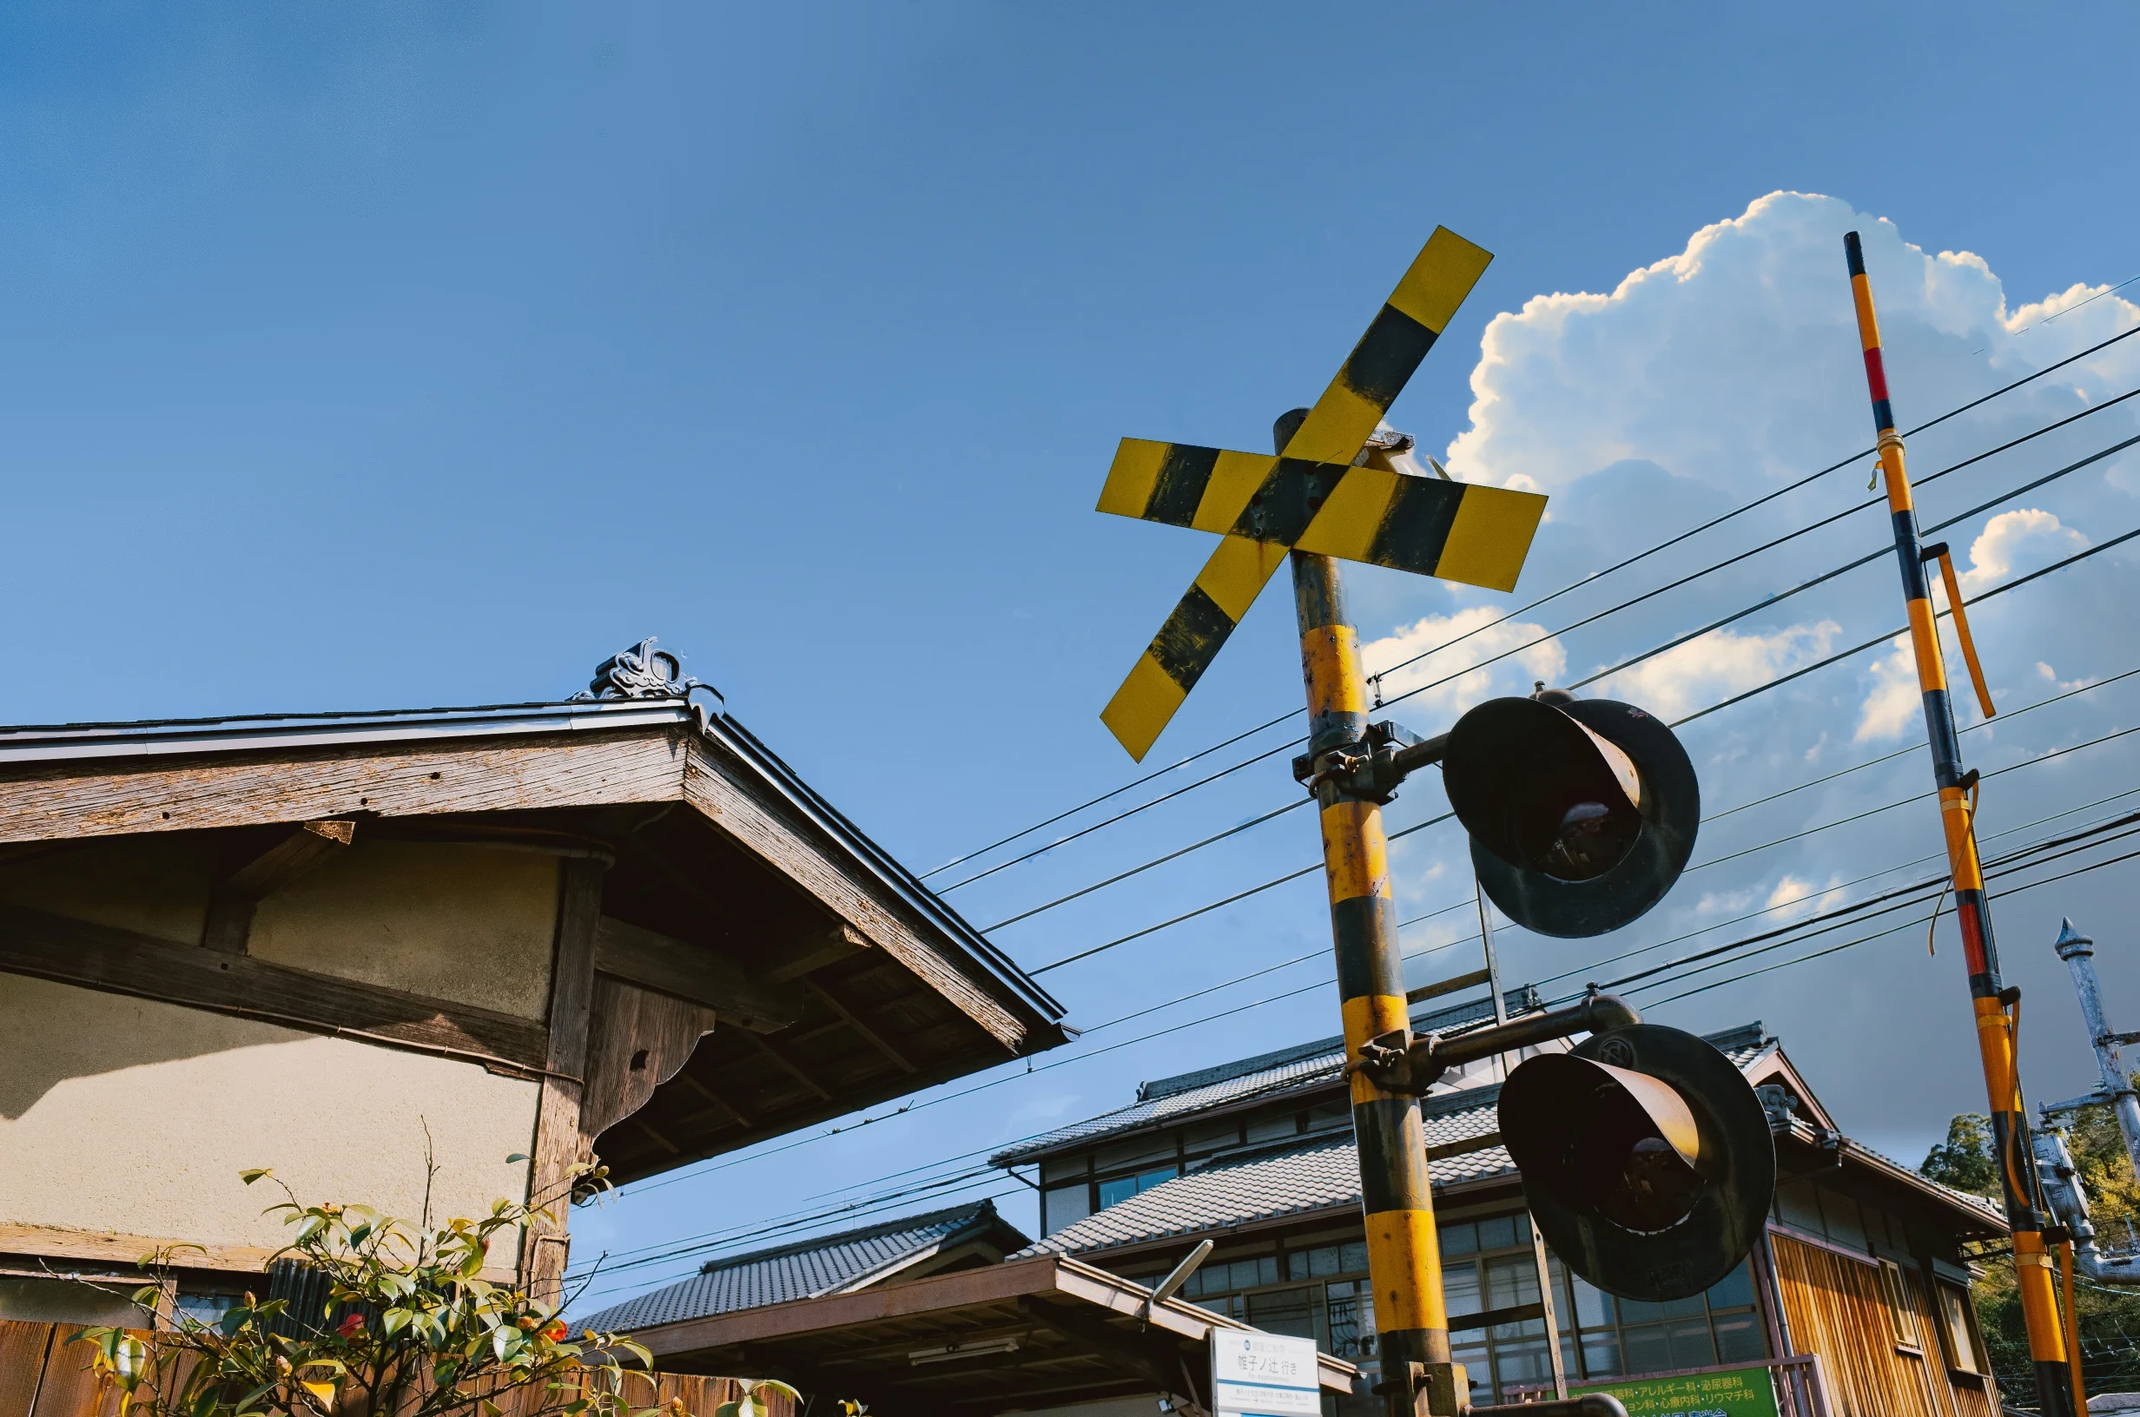
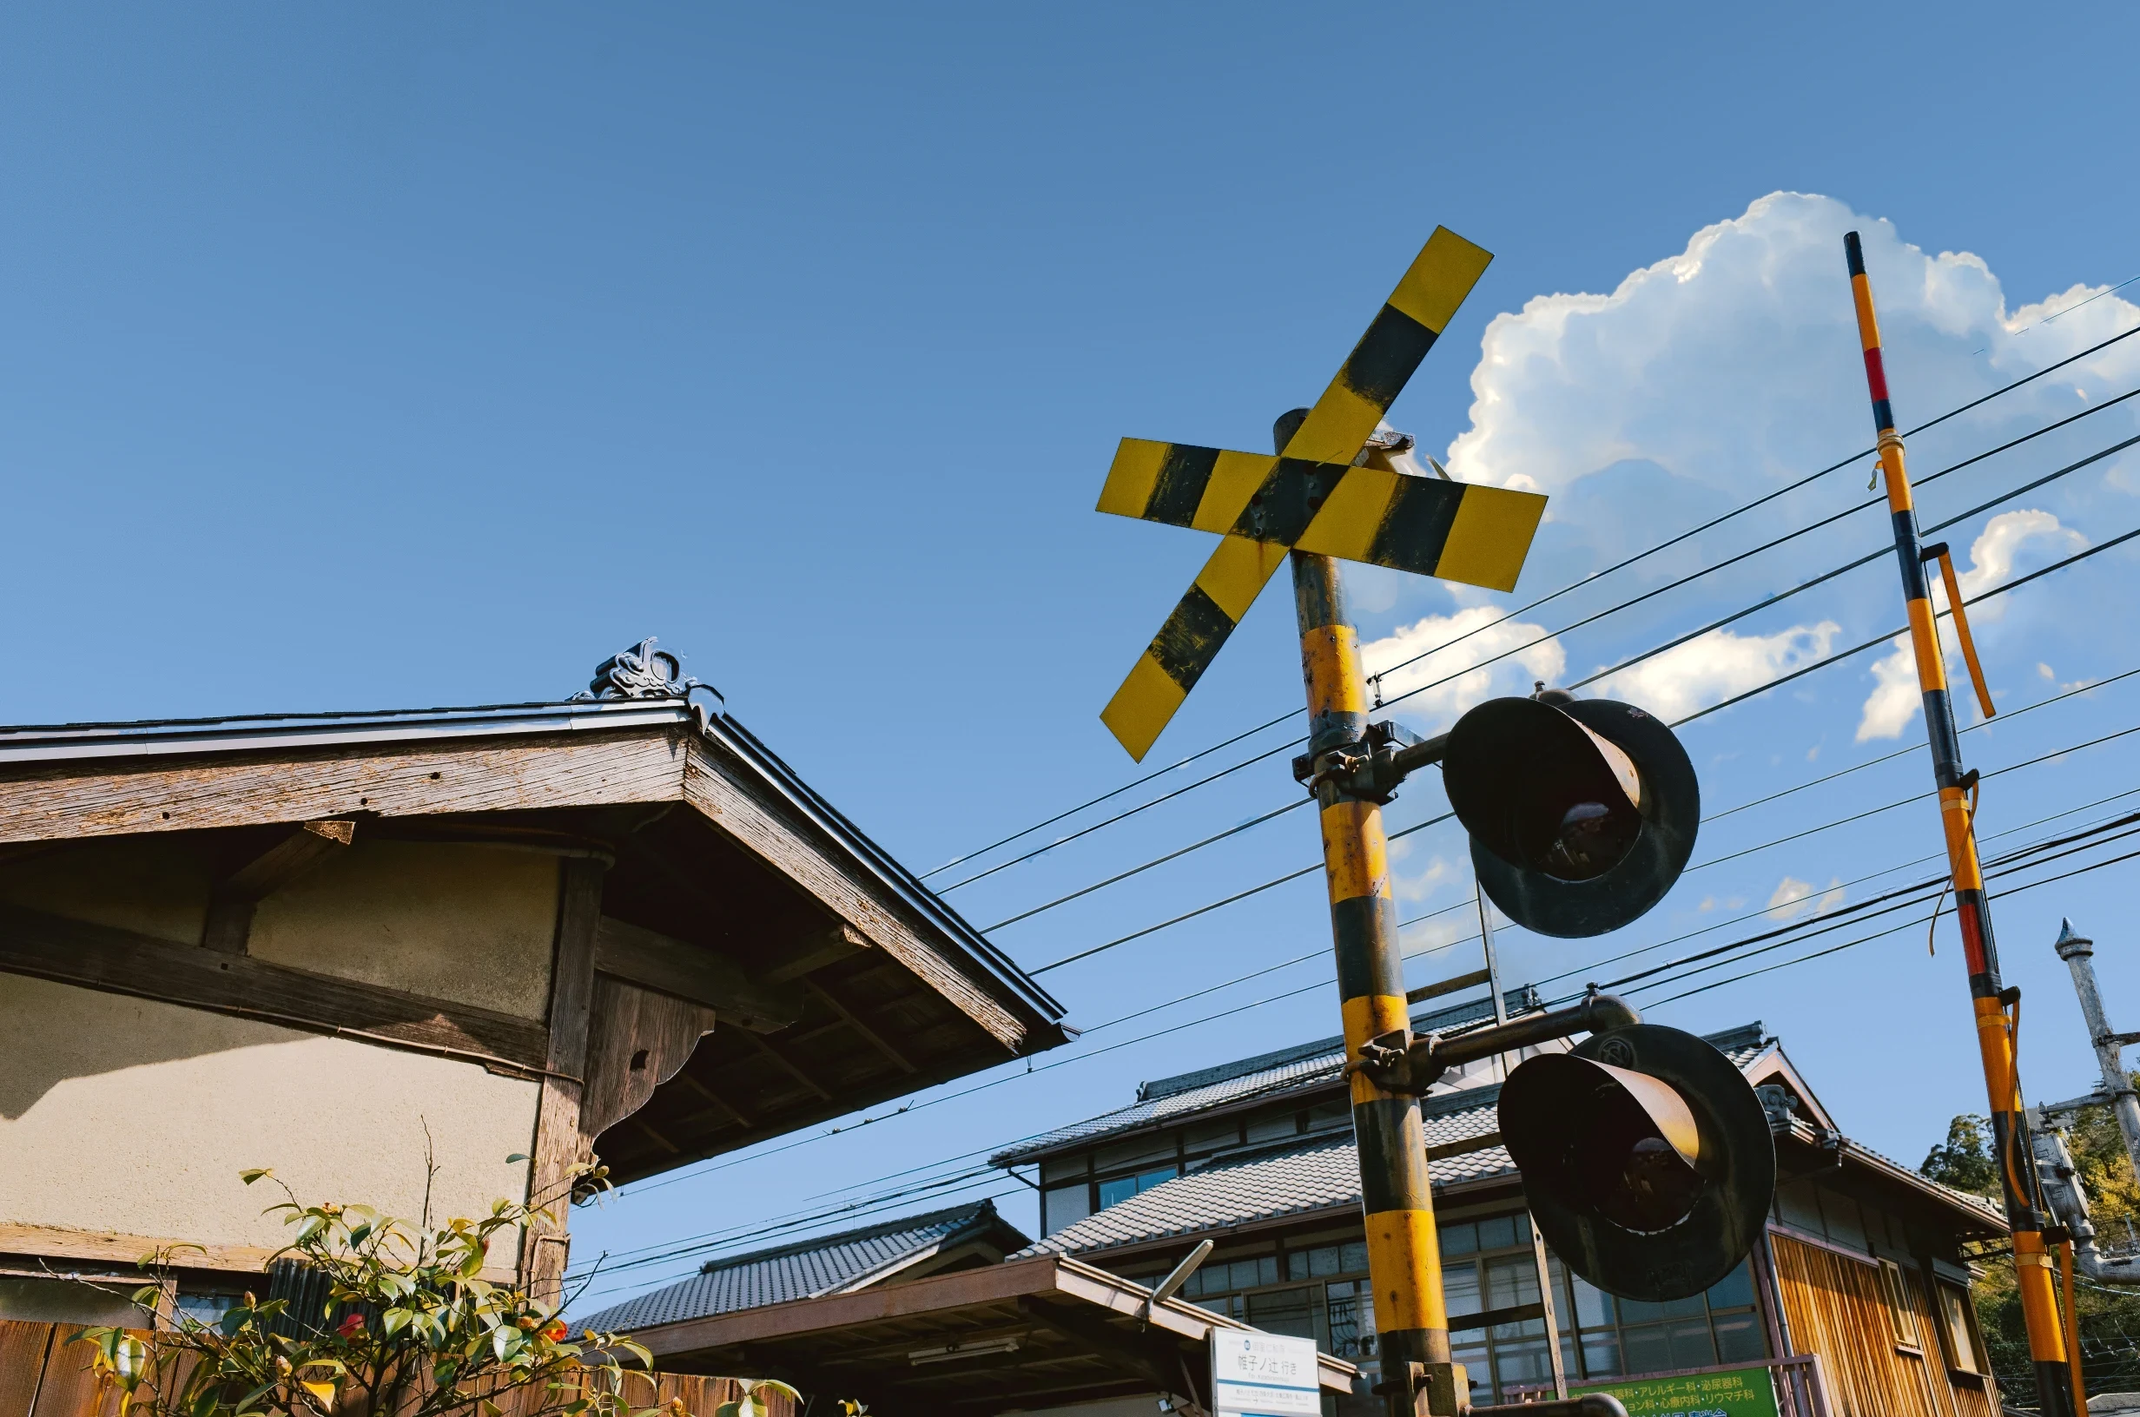
Lab: climb curve-mirror round 2
Claude-Session: https://claude.ai/code/session_01RqENhngNCzDFmJWDZueXGV

diff --git a/tools/depth/bakes/curve-mirror/matte.py b/tools/depth/bakes/curve-mirror/matte.py
@@ -1,0 +1,293 @@
+"""The plate's sky, composited again: one matte, one grade, one sky.
+
+    python3 -I tools/depth/bakes/curve-mirror/matte.py [OUT] [SRC] [SHEET]
+      reads SRC (default OUT/photo.webp: the plate as grade.py leaves it),
+      OUT/aux.png (the sky matte, blue) and OUT/scene.json (the camera, the
+      sun); writes OUT/photo.webp, the sky matte at the right edge in
+      OUT/aux.png, and marks scene.json ("matte": 1) so it cannot run twice
+      on one plate (FORCE=1, with SRC a copy of the plate before it and that
+      plate's aux.png back in OUT, to run it again). SHEET: optional preview.
+
+    Order: last, after grade.py (it moves only the sky, the cloud's edge and
+    the cold cast on the foreground at the right edge; grade.png's zones
+    stand). The panorama (env.webp) is not touched.
+
+clouds.py laid a photographed cumulus over the plate, but the source was
+backlit (a silver lining on every turret) and the plate's sun stands behind
+the lens at the upper left: so the heap carried a thin, bright, warm white
+rim round its whole silhouette, brighter than the body just inside it, with
+a one or two px sharpening overshoot on its outside and a hard step to the
+blue. Over the cobalt it read as a cut-out, not a cloud. And the plate's own
+sky, low at the lower right behind the far pole and the trees, was never
+taken to the cobalt: a slate grey band (about 122, 149, 177 where the
+gradient is 139, 178, 222), a storm under a summer sky. Its cold cast had
+reached the galvanised tower beside the striped pole, and the matte read the
+tower's light faces as a speckle of part sky, so the engine's cloud lift
+(which reads that matte) printed them a cold cyan.
+
+So, in the plate's linear light:
+
+  1. the old clear sky, B: the target's saturation and no brighter (or, in
+     the slate band, SLATE, its darker, greyer blue), filled in under the
+     cloud; the new one is the graded target by elevation
+     (sky_grade.target), the one cobalt gradient that deepens toward the
+     zenith across the whole frame, the plate's own grain on it;
+  2. the cloud's matte, unmixed: how far each pixel has gone pale from B
+     (PALE), soft, so a wisp or a thinning belly keeps its share; eroded as
+     a grey matte ERODE px (a hard edge moves in past the rim's outermost
+     line and the overshoot, a soft one barely changes) and feathered
+     FEATHER px, so the edge rolls into the blue;
+  3. its light decontaminated: B taken out by the pixel's share (where the
+     share is too thin to trust, the body's colour pushed out). Inside RIM
+     px of the body's edge on clear sky (a wire across it is not an edge),
+     each pixel's light is held to the body's just inside (CAP: a crown
+     stays white where the body behind it is white, a thin silver line round
+     a shaded tower goes), its hue the body's, its fine florets laid back on
+     (DETAIL). Then the faces turned to the sun lit, broadly (SUN_D deep,
+     SUN_LIFT brighter, SUN_WARM toward the sunlit top's warm white): a
+     front-lit heap, bright on its sun side and rolling off at its edge;
+  4. laid over the plate with clouds._lay_over (every wire, pole and eave's
+     edge pixel unmixed against the new sky, the sharpening halo taken out);
+     the strips of old sky the matte left out between two wires run close
+     are sky;
+  5. the foreground at the right edge (DESPILL): the tower and the pole's
+     fittings made solid in the matte (TOWER, TOWER_MIN), their cold cast
+     taken out (blue held to the larger of red and green, a cyan cast to
+     the grey) and a little warmth given back (WARM: the film, the Pro-Mist's
+     veil and the dye bleed off the cobalt cool a thin grey again), and the
+     matte the engine reads made the same there.
+"""
+import json
+import os
+import sys
+
+import cv2
+import numpy as np
+
+sys.path.insert(0, os.path.join(os.path.dirname(os.path.abspath(__file__)), "..", ".."))
+import kit
+
+sys.path.insert(0, os.path.dirname(os.path.abspath(__file__)))
+import clouds
+import develop
+import sky_grade
+
+PALE = (0.92, 0.45)  # saturation over the old clear sky's: no cloud .. all cloud
+SLATE = ((1980.0, 820.0), 80.0)  # the slate band low at the right: from (x, y) on, and its feather (px)
+ERODE = 1.5  # px the cloud's matte is eroded at its edge on clear sky
+FEATHER = 1.5  # px (sigma) it is then feathered
+RIM = 22.0  # px inside the edge over which its light is held to the body's
+CAP = 0.95  # the rim's light, at most this over the body's just inside it
+SUN_D = 80.0  # px: how deep a face turned to the sun is lit
+SUN_LIFT = 0.3  # how much brighter it is than the body
+SUN_WARM = 0.5  # and how far toward the sunlit top's warm white
+DETAIL = 1.0  # how much of the rim's own fine texture is laid back on
+WARM = (1.05, 1.0, 0.88)  # the warmth the despilled foreground is given (linear)
+TOWER = (2330.0, 1030.0)  # the tower and the pole's fittings: from (x, y) on (above: the wires)
+TOWER_MIN = 3000.0  # px: a solid piece of the foreground (smaller: a wire pair and its gap)
+DESPILL = ((2120.0, 860.0), 140.0)  # the zone at the right edge: from (x, y) on, and its feather (px)
+
+
+def _pp(col, w, sigma):
+    out = kit.pushpull(col, w)
+    return cv2.GaussianBlur(out, (0, 0), sigma) if sigma > 0 else out
+
+
+def composite(lin, sky, el, sun_img, tower):
+    """The plate's sky rebuilt. lin: linear RGB; sky: the 0..1 open-sky
+    matte; el: elevation (degrees) per pixel; sun_img: the sun's direction
+    across the image (x right, y down), unit; tower: the solid foreground at
+    the right edge (solid()). Returns the image and maps."""
+    H, W = sky.shape
+    T = sky_grade.target(el)
+    L = kit.luma(lin)
+    LT = kit.luma(T)
+    inside = (sky > 0.5).astype(np.uint8)
+    fg = (sky < 0.5).astype(np.uint8)
+    sat = lambda c: (c.max(-1) - c.min(-1)) / np.maximum(c.max(-1), 1e-5)
+    s_px = cv2.GaussianBlur(sat(develop.enc(lin)), (0, 0), 1.0)
+
+    # the old clear sky, B: the target's saturation and no brighter than it,
+    # or, in the slate band low at the right, its darker, greyer blue
+    xs, ys = np.meshgrid(np.arange(W, dtype=np.float32), np.arange(H, dtype=np.float32))
+    (sx0, sy0), sfe = SLATE
+    slate = kit.smoothstep(sx0 - sfe, sx0 + sfe, xs) * kit.smoothstep(sy0 - sfe, sy0 + sfe, ys)
+    srT = s_px / np.maximum(sat(develop.enc(T)), 1e-3)
+    rT = L / np.maximum(LT, 1e-5)
+    cand = (srT > 0.9) & (rT < 1.15) | (slate > 0.5) & (srT > 0.62) & (rT < 0.95)
+    cand = cand & (sky > 0.95)
+    B = cv2.GaussianBlur(kit.pushpull(lin, cand.astype(np.float32)), (0, 0), 12.0)
+    B = np.maximum(B, 1e-4)
+    # in the slate band the matte left strips of the old sky out (between two
+    # wires run close): a pixel there that is the old sky's own colour, and
+    # not the tower (which is galvanised to the same grey), is sky
+    dev = np.abs(lin / B - 1).max(-1)
+    slike = (slate > 0.5) & (tower < 0.5) & (sky < 0.95) & (dev < 0.1)
+    slike = cv2.erode(slike.astype(np.uint8), kit.disk(1)).astype(np.float32)
+    sky = np.maximum(sky, cv2.GaussianBlur(slike, (0, 0), 0.7))
+    inside = (sky > 0.5).astype(np.uint8)
+    fg = (sky < 0.5).astype(np.uint8)
+
+    # how much of each pixel is cloud: how far it has gone pale from its
+    # clear sky (unmixed, soft: a wisp keeps its share)
+    srB = s_px / np.maximum(sat(develop.enc(B)), 1e-3)
+    au = np.clip((PALE[0] - srB) / (PALE[0] - PALE[1]), 0, 1) * np.clip(sky, 0, 1)
+    # eroded as a grey matte (a hard edge moves in ERODE px, past the rim's
+    # outermost line and the overshoot; a soft one barely changes), feathered
+    a = cv2.erode(au, kit.disk(ERODE))
+    a = cv2.GaussianBlur(a, (0, 0), FEATHER)
+    a = np.where(fg > 0, np.maximum(a, au), a)
+
+    # the body (for the rim's distances): specks opened away, gaps filled; its
+    # edge only where it meets clear sky (a wire across it is not an edge)
+    core = cv2.morphologyEx((au > 0.5).astype(np.uint8), cv2.MORPH_OPEN, kit.disk(2))
+    core = cv2.morphologyEx(core, cv2.MORPH_CLOSE, kit.disk(3))
+    solid = (core | fg).astype(np.uint8)
+    n, lab, st, _ = cv2.connectedComponentsWithStats((1 - solid).astype(np.uint8), connectivity=4)
+    small = np.zeros(n, bool)
+    small[1:] = st[1:, cv2.CC_STAT_AREA] < 900
+    core = np.where(small[lab] & (inside > 0), 1, core).astype(np.uint8)
+    d_in = cv2.distanceTransform((core | fg).astype(np.uint8), cv2.DIST_L2, 5)
+
+    # the new clear sky: the target, the plate's grain on it
+    clear = cand & (au < 0.05)
+    hp = np.clip(L / np.maximum(cv2.GaussianBlur(L, (0, 0), 2.0), 1e-5) - 1, -0.06, 0.06)
+    grain = np.where(clear, hp, np.roll(np.where(clear, hp, 0), 90, 0))
+    Tg = T * (1 + grain)[..., None]
+
+    # the cloud's own light, decontaminated: the old sky taken out by its
+    # share; where the share is too thin to trust, the body's pushed out
+    Fu = (lin - (1 - au[..., None]) * B) / np.maximum(au, 0.05)[..., None]
+    trust = kit.smoothstep(0.15, 0.4, au)
+    Fp = _pp(Fu, (au > 0.4).astype(np.float32), 1.0)
+    F = np.clip(Fu * trust[..., None] + Fp * (1 - trust[..., None]), 0, None)
+
+    # the rim: light held to the body's just inside it, hue pushed out
+    Lf = kit.luma(F)
+    deep = ((d_in > RIM) & (core > 0)).astype(np.float32)
+    mid = ((d_in > ERODE + 2) & (core > 0)).astype(np.float32)
+    Lp = _pp(Lf, deep, 4.0)
+    chroma = F / np.maximum(Lf, 1e-5)[..., None]
+    Cp = _pp(chroma, mid, 1.5)
+    Cd = _pp(chroma, deep, 4.0)
+    w = (1 - kit.smoothstep(0.5 * RIM, RIM, d_in)) * (core > 0)
+    Lb = cv2.GaussianBlur(Lf, (0, 0), 2.5)
+    det = np.clip(Lf / np.maximum(Lb, 1e-5), 0.6, 1.6) ** DETAIL
+    Lcap = np.minimum(Lb, Lp * CAP) * det
+    Lr = Lf * (1 - w) + np.minimum(Lf, Lcap) * w
+    hue = chroma * (1 - w[..., None]) + (Cp * 0.5 + Cd * 0.5) * w[..., None]
+
+    # the sun's side of the heap: a point whose neighbour SUN_D px toward the
+    # sun is open sky stands on a face turned to it; lit broadly, rolling into
+    # the body, not a line at the silhouette
+    body = core.astype(np.float32) * (fg == 0) + (fg > 0) * cv2.dilate(core, kit.disk(4)).astype(np.float32)
+    M = np.float32([[1, 0, -sun_img[0] * SUN_D], [0, 1, -sun_img[1] * SUN_D]])
+    toward = cv2.warpAffine(body, M, (W, H), flags=cv2.INTER_LINEAR, borderMode=cv2.BORDER_REPLICATE)
+    lit = cv2.GaussianBlur(np.clip(body - toward, 0, 1), (0, 0), SUN_D * 0.5) * body
+    lit = np.clip(lit * 1.6, 0, 1)
+    top = clouds.TOP / float(kit.luma(clouds.TOP[None, None])[0, 0])
+    hue = hue + (top[None, None] - hue) * (SUN_WARM * lit)[..., None]
+    Lr = Lr * (1 + SUN_LIFT * lit)
+    F = hue * Lr[..., None]
+
+    new = a[..., None] * F + (1 - a[..., None]) * Tg
+    out, _ = clouds._lay_over(lin, new, sky, 2.5)
+    return np.clip(out, 0, None).astype(np.float32), {"a": a, "core": core.astype(np.float32), "w": w, "q": au, "lit": lit, "B": B, "sky": sky}
+
+
+def _zone(H, W):
+    (x0, y0), fe = DESPILL
+    xs, ys = np.meshgrid(np.arange(W, dtype=np.float32), np.arange(H, dtype=np.float32))
+    return kit.smoothstep(x0 - fe, x0 + fe, xs) * kit.smoothstep(y0 - fe, y0 + fe, ys)
+
+
+def solid(sky):
+    """The sky matte with the foreground at the right edge made solid. The
+    tower's galvanised faces are as light as the slate sky was, and the matte
+    read them as a speckle of part sky, so the sky's change, and its blue,
+    reached into them: there the foreground is closed (its speckle holes
+    filled) and taken out of the sky."""
+    H, W = sky.shape
+    fg = (sky < 0.5).astype(np.uint8)
+    closed = cv2.morphologyEx(fg, cv2.MORPH_CLOSE, kit.disk(9))
+    # (only the tower's body: wires, and the sky between two of them, are
+    # thinner than it and opened away)
+    closed = cv2.morphologyEx(closed, cv2.MORPH_OPEN, kit.disk(6))
+    n, lab, st, _ = cv2.connectedComponentsWithStats(closed, connectivity=8)
+    big = np.zeros(n, np.float32)
+    big[1:] = st[1:, cv2.CC_STAT_AREA] > TOWER_MIN
+    closed = big[lab]
+    closed = cv2.GaussianBlur(closed, (0, 0), 0.8)
+    box = np.zeros((H, W), np.float32)
+    box[int(TOWER[1]):, int(TOWER[0]):] = 1
+    tower = _zone(H, W) * closed * cv2.GaussianBlur(box, (0, 0), 3.0)
+    return (sky * (1 - tower)).astype(np.float32), tower
+
+
+def despill(lin, sky):
+    """The cold cast on the foreground at the right edge taken out: blue held
+    to the larger of red and green, by how much of the pixel is foreground and
+    how far into the zone it stands."""
+    H, W = sky.shape
+    k = _zone(H, W) * (1 - np.clip(sky, 0, 1)) ** 2
+    R, G, B = lin[..., 0], lin[..., 1], lin[..., 2]
+    L = kit.luma(lin)
+    top = np.maximum(R, G)
+    Bn = np.minimum(B, top)
+    # a cyan cast (green over red on a grey) too, by the same share
+    Gn = np.where(G > R, G - 0.6 * np.minimum(G - R, B - Bn + 0.5 * (G - R)), G)
+    # and a little of the sunlit afternoon's warmth (the film, the Pro-Mist's
+    # veil and the dye bleed off the cobalt round a thin object all cool it
+    # again on the way to the print; a neutral here prints blue-grey)
+    out = np.stack([R, Gn, Bn], -1) * np.asarray(WARM, np.float32)
+    # luminance kept
+    out = out * (L / np.maximum(kit.luma(out), 1e-5))[..., None]
+    return (lin * (1 - k[..., None]) + out * k[..., None]).astype(np.float32), k
+
+
+def main():
+    OUT = sys.argv[1] if len(sys.argv) > 1 else "public/lab/curve-mirror"
+    SRC = sys.argv[2] if len(sys.argv) > 2 else f"{OUT}/photo.webp"
+    SHEET = sys.argv[3] if len(sys.argv) > 3 else None
+    with open(f"{OUT}/scene.json") as fh:
+        sc = json.load(fh)
+    if sc.get("matte") and not os.environ.get("FORCE"):
+        sys.exit("matte.py: this plate's sky is already composited (scene.json); FORCE=1 with the plate before it")
+    sun = np.array(sc["sun"], np.float32)
+    sun /= np.linalg.norm(sun)
+    srgb = kit.load_rgb(SRC)
+    lin = develop.dec(srgb)
+    H, W = lin.shape[:2]
+    aux = cv2.imread(f"{OUT}/aux.png", cv2.IMREAD_COLOR)[..., ::-1].astype(np.float32) / 255
+    sky, tower = solid(cv2.resize(aux[..., 2], (W, H), interpolation=cv2.INTER_LINEAR))
+    rw, right, up = clouds._frame_plate(sc)
+    el = np.degrees(np.arcsin(np.clip(rw[..., 1], -1, 1)))
+    sx, sy = float(np.mean((right * sun).sum(-1))), -float(np.mean((up * sun).sum(-1)))
+    sn = np.hypot(sx, sy)
+    out, maps = composite(lin, sky, el, (sx / sn, sy / sn), tower)
+    out, k = despill(out, sky)
+    enc = np.clip(np.round(develop.enc(out) * 255), 0, 255).astype(np.uint8)
+    cv2.imwrite(f"{OUT}/photo.webp", enc[..., ::-1], [cv2.IMWRITE_WEBP_QUALITY, 88])
+    # the engine reads the same matte (aux.png, blue) to carry the cloud's
+    # tops past 8 bits: a speckle of sky on the tower took that lift, and its
+    # warm-white normalisation, as a cold blue. The tower solid, the strips
+    # between wires sky, there and only there.
+    z = cv2.resize(_zone(H, W), (aux.shape[1], aux.shape[0]), interpolation=cv2.INTER_AREA)
+    sk = cv2.resize(maps["sky"], (aux.shape[1], aux.shape[0]), interpolation=cv2.INTER_AREA)
+    aux8 = cv2.imread(f"{OUT}/aux.png", cv2.IMREAD_COLOR)
+    aux8[..., 0] = np.where(z > 0.01, np.clip(np.round(sk * 255), 0, 255), aux8[..., 0]).astype(np.uint8)
+    cv2.imwrite(f"{OUT}/aux.png", aux8)
+    print(f"plate: cloud {100 * (maps['a'] > 0.5).mean():.2f}%, rim {100 * (maps['w'] > 0.05).mean():.2f}% of the frame")
+    sc["matte"] = 1
+    with open(f"{OUT}/scene.json", "w") as fh:
+        json.dump(sc, fh, indent=1)
+    if SHEET:
+        sm = lambda x: cv2.resize(x, (W // 3, H // 3), interpolation=cv2.INTER_AREA)
+        g = lambda m: np.repeat(sm(np.clip(m, 0, 1).astype(np.float32))[..., None], 3, -1)
+        tiles = [(g(maps["a"]), "cloud"), (g(maps["w"]), "rim"), (g(k), "despill"), (sm(srgb), "before"),
+                 (sm(enc.astype(np.float32) / 255), "after"), (g(maps["lit"]), "sunlit")]
+        kit.write_sheet(SHEET, kit.grid(tiles, 3))
+
+
+if __name__ == "__main__":
+    main()
